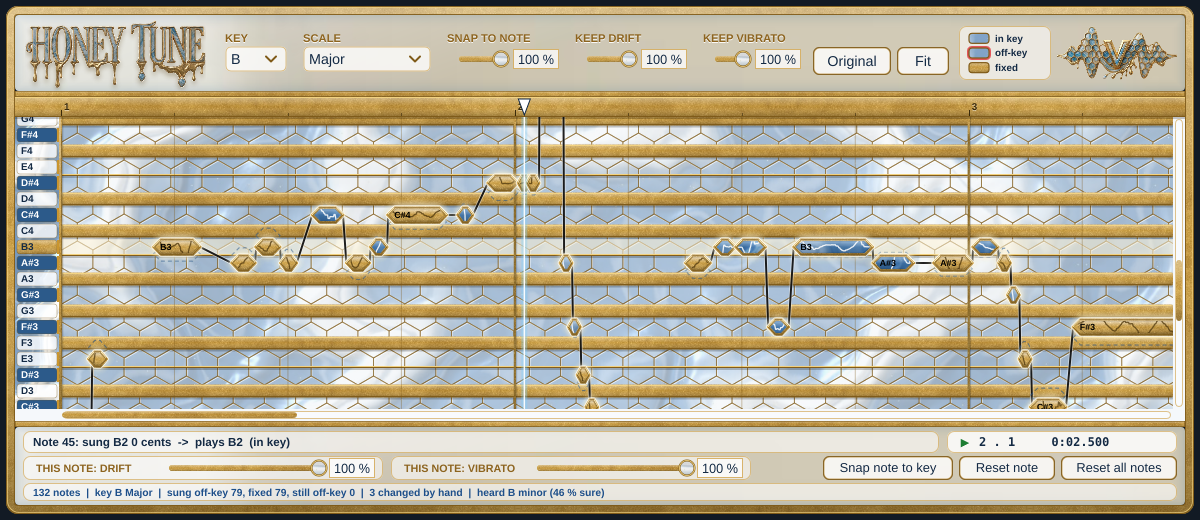
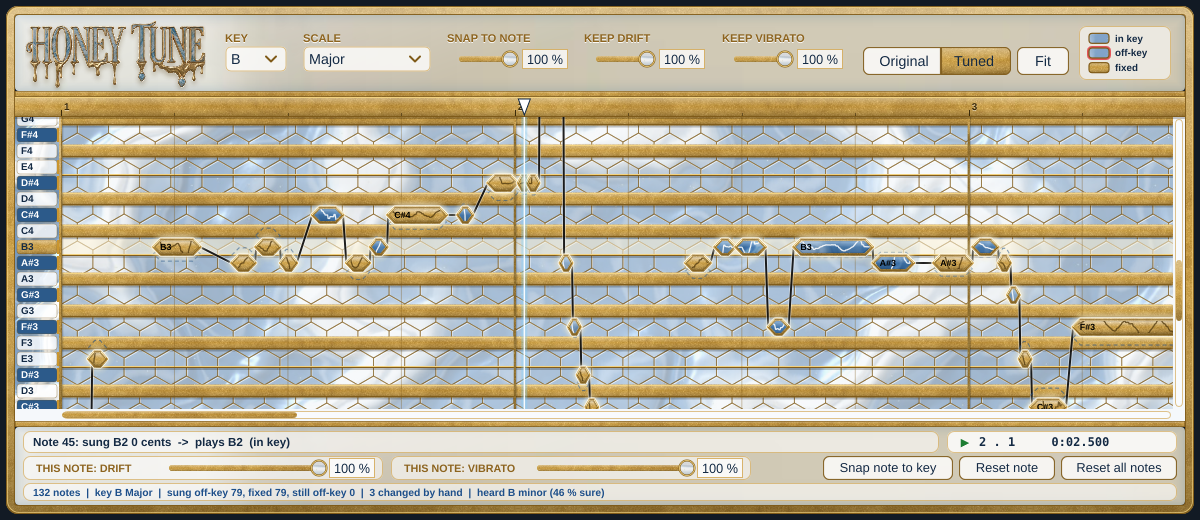
Honey Tune: Original | Tuned switch (the lit side is what you see and hear)
Claude-Session: https://claude.ai/code/session_01CehMogZvv8Ni66uUe9tZRt

Changed region(s): [[0.4008, 0.0308, 0.9867, 0.1538]]

diff --git a/honeytune/HoneyPanel.cpp b/honeytune/HoneyPanel.cpp
@@ -54,14 +54,25 @@ HoneyPanel::HoneyPanel() : look (std::make_unique<honeytheme::Look>())
     for (auto* c : { &key, &scale }) addAndMakeVisible (*c);
     for (auto* l : { &keyLabel, &scaleLabel, &snapLabel, &driftLabel, &vibratoLabel })
         l->setVisible (false);   // painted in gold by the panel
-    for (auto* b : { &snapNote, &resetNote, &resetAll, &fit, &original }) addAndMakeVisible (*b);
-    original.setClickingTogglesState (true);
-    original.setTooltip ("A / B: hear and see the clip as recorded (your edits are kept)");
-    original.onClick = [this]
+    for (auto* b : { &snapNote, &resetNote, &resetAll, &fit, &original, &tuned }) addAndMakeVisible (*b);
+    // A / B switch: the lit side is what you see and hear (your edits are kept either way).
+    original.setTooltip ("Hear and see the clip as recorded");
+    tuned.setTooltip ("Hear and see it with your edits");
+    for (auto* b : { &original, &tuned })
+    {
+        b->setClickingTogglesState (true);
+        b->setRadioGroupId (4711);
+    }
+    original.setConnectedEdges (Button::ConnectedOnRight);
+    tuned.setConnectedEdges (Button::ConnectedOnLeft);
+    tuned.setToggleState (true, dontSendNotification);
+    auto ab = [this]
     {
         if (model != nullptr) model->setOriginal (original.getToggleState());
         roll.repaint();
     };
+    original.onClick = ab;
+    tuned.onClick = ab;
 
     key.onChange = scale.onChange = [this] { applySettings(); };
     for (auto* s : { &snap, &drift, &vibrato }) s->onDragEnd = [this] { applySettings(); };
@@ -115,7 +126,7 @@ void HoneyPanel::setModel (honeyui::Model* m)
     model = m;
     if (model != nullptr)
     {
-        original.setToggleState (model->isOriginal(), dontSendNotification);
+        (model->isOriginal() ? original : tuned).setToggleState (true, dontSendNotification);
         const auto s = model->getSettings();
         key.setSelectedId (s.key + 1, dontSendNotification);
         scale.setSelectedId (s.scale + 1, dontSendNotification);
@@ -271,7 +282,7 @@ void HoneyPanel::paint (Graphics& g)
 
     // Logo, top right
     g.setOpacity (1.0f);
-    if (const auto img = logo(); img.isValid())
+    if (const auto img = logo(); img.isValid() && ! logoArea.isEmpty())
         g.drawImage (img, logoArea, RectanglePlacement::centred);
 
     // Time readout (bars . beats like the host, and the song time), synced to playback.
@@ -349,14 +360,17 @@ void HoneyPanel::resized()
     top.removeFromLeft (192.0f);
     top.removeFromLeft (6.0f);
     top = top.withSizeKeepingCentre (top.getWidth(), 54.0f);
-    logoArea = top.removeFromRight (120.0f);
+    // The logo only when there's room; the controls come first.
+    logoArea = getWidth() >= 1320 ? top.removeFromRight (120.0f) : Rectangle<float>();
     top.removeFromRight (6.0f);
     legendArea = top.removeFromRight (92.0f);
     cards.push_back (legendArea);
     top.removeFromRight (10.0f);
     fit.setBounds (top.removeFromRight (52.0f).withSizeKeepingCentre (52.0f, 28.0f).translated (0.0f, 8.0f).toNearestInt());
     top.removeFromRight (6.0f);
-    original.setBounds (top.removeFromRight (78.0f).withSizeKeepingCentre (78.0f, 28.0f).translated (0.0f, 8.0f).toNearestInt());
+    auto abArea = top.removeFromRight (148.0f).withSizeKeepingCentre (148.0f, 28.0f).translated (0.0f, 8.0f);
+    tuned.setBounds (abArea.removeFromRight (70.0f).toNearestInt());
+    original.setBounds (abArea.toNearestInt());
     top.removeFromRight (8.0f);
     auto column = [this, &top] (float width, Label& l, Component& c)
     {

diff --git a/honeytune/HoneyTheme.cpp b/honeytune/HoneyTheme.cpp
@@ -202,14 +202,20 @@ void Look::drawComboBox (Graphics& g, int w, int h, bool, int, int, int, int, Co
 void Look::drawButtonBackground (Graphics& g, Button& b, const Colour&, bool over, bool down)
 {
     const auto r = b.getLocalBounds().toFloat().reduced (0.5f);
+    // Joined edges (the Original | Tuned switch) are square, so the pair reads as one control.
+    const bool left = ! b.isConnectedOnLeft(), right = ! b.isConnectedOnRight();
     Path p;
-    p.addRoundedRectangle (r, 6.0f);
-    if (down || over || b.getToggleState())   // a toggled button (Original) stays gold
+    p.addRoundedRectangle (r.getX(), r.getY(), r.getWidth(), r.getHeight(), 6.0f, 6.0f, left, right, left, right);
+    const bool isSwitch = b.getRadioGroupId() != 0;
+    if (b.getToggleState() || (! isSwitch && (down || over)))   // the lit side of a switch stays gold
         fillGold (g, p, r);
     else
-        drawGlass (g, r, 6.0f, 0.82f);
+    {
+        g.setColour (Colours::white.withAlpha (over ? 0.95f : 0.82f));
+        g.fillPath (p);
+    }
     g.setColour (goldDeep.withAlpha (b.isEnabled() ? 0.9f : 0.4f));
-    g.drawRoundedRectangle (r, 6.0f, 1.2f);
+    g.strokePath (p, PathStrokeType (1.2f));
 }
 
 void Look::drawLinearSlider (Graphics& g, int x, int y, int w, int h, float pos, float, float, Slider::SliderStyle, Slider& s)

diff --git a/honeytune/HoneyPanel.h b/honeytune/HoneyPanel.h
@@ -40,7 +40,7 @@ private:
 
     juce::ComboBox key, scale;
     juce::Slider snap, drift, vibrato, noteDrift, noteVibrato;
-    juce::TextButton snapNote { "Snap note to key" }, resetNote { "Reset note" }, resetAll { "Reset all notes" }, fit { "Fit" }, original { "Original" };
+    juce::TextButton snapNote { "Snap note to key" }, resetNote { "Reset note" }, resetAll { "Reset all notes" }, fit { "Fit" }, original { "Original" }, tuned { "Tuned" };
     juce::Label keyLabel, scaleLabel, snapLabel, driftLabel, vibratoLabel, noteDriftLabel, noteVibratoLabel;
     juce::String status, noteInfo;
 };

diff --git a/claude/RESUME-HERE.md b/claude/RESUME-HERE.md
@@ -183,7 +183,7 @@ plays `recorded` copy; also plays the recording instead of silence while analysi
 duration-weighted median pitch. Round 8: ruler shows the HOST's bars/beats (editor buildTimeline: region songOffset + ARA TempoConverter /
 BarSignaturesConverter -> honeyui::Timeline lines in clip seconds; seconds fallback), bar lines raised gold, beat
 lines fine; time readout card (bar . beat + song time, play/stop icon) in the bottom bar, synced via panel.setPlayhead;
-refresh every 1.5 s for tempo changes. Preview: HONEY_BPM fakes a tempo map. Voxology VST3 category now "Fx|Vocals" (Cubase Vocals folder; user may need a Plug-in Manager rescan). Phrase connectors: black line (white edge) note end -> next start when gap < 0.2 s. Click/drag the ruler -> HostPlaybackController::requestSetPlaybackPosition (song = clip + songOffset). Chrome blocks the unsigned zip as dangerous: user must Keep (code signing later). drips de-haloed and drawn BEFORE the frame with tops tucked under it.
+refresh every 1.5 s for tempo changes. Preview: HONEY_BPM fakes a tempo map. Voxology VST3 category now "Fx|Vocals" (Cubase Vocals folder; user may need a Plug-in Manager rescan). A/B is now a two-part switch Original | Tuned (radio pair, lit side = what you see and hear; logo hidden under 1320 px). Phrase connectors: black line (white edge) note end -> next start when gap < 0.2 s. Click/drag the ruler -> HostPlaybackController::requestSetPlaybackPosition (song = clip + songOffset). Chrome blocks the unsigned zip as dangerous: user must Keep (code signing later). drips de-haloed and drawn BEFORE the frame with tops tucked under it.
 
 ## Honey Tune (decided 2026-10-05; build AFTER the user confirms v0.2 works in Cubase)
 User's name for our Melodyne-style note editor: "Honey Tune". Each note = a gold-rimmed blue-marble
